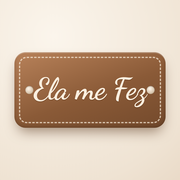
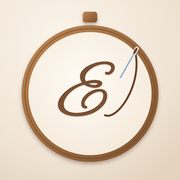
feat: novo ícone do app (E floreado bordado no bastidor) e nome 'Ela me Fez'
Claude-Session: https://claude.ai/code/session_01Vfb9uRLmoYKPsP2WywoggU

diff --git a/index.html b/index.html
@@ -4,18 +4,18 @@
 <meta charset="UTF-8">
 <script>if(location.protocol==="http:"&&/elamefez\.com\.br$/.test(location.hostname)){location.replace("https://elamefez.com.br"+location.pathname+location.search+location.hash)}</script>
 <meta name="viewport" content="width=device-width, initial-scale=1.0, viewport-fit=cover">
-<title>Ateliê</title>
+<title>Ela me Fez</title>
 <meta name="description" content="Necessaires, bordados, amigurumis e presentes feitos à mão. Escolha tamanho, cor e estampa e faça seu pedido pelo WhatsApp.">
 <meta name="theme-color" content="#F5EFE6">
-<link rel="icon" type="image/png" sizes="32x32" href="favicon.png">
-<link rel="icon" type="image/png" sizes="192x192" href="icons/icon-192.png">
-<link rel="apple-touch-icon" sizes="180x180" href="/apple-touch-icon.png">
-<link rel="manifest" href="manifest.webmanifest">
+<link rel="icon" type="image/png" sizes="32x32" href="favicon.png?v=202611082000">
+<link rel="icon" type="image/png" sizes="192x192" href="icons/icon-192.png?v=202611082000">
+<link rel="apple-touch-icon" sizes="180x180" href="/apple-touch-icon.png?v=202611082000">
+<link rel="manifest" href="manifest.webmanifest?v=202611082000">
 <meta name="apple-mobile-web-app-capable" content="yes">
 <meta name="mobile-web-app-capable" content="yes">
-<meta name="apple-mobile-web-app-title" content="Ateliê">
+<meta name="apple-mobile-web-app-title" content="Ela me Fez">
 <meta name="apple-mobile-web-app-status-bar-style" content="default">
-<meta name="application-name" content="Ateliê">
+<meta name="application-name" content="Ela me Fez">
 <link rel="canonical" href="https://elamefez.com.br/">
 <meta property="og:type" content="website">
 <meta property="og:url" content="https://elamefez.com.br/">
